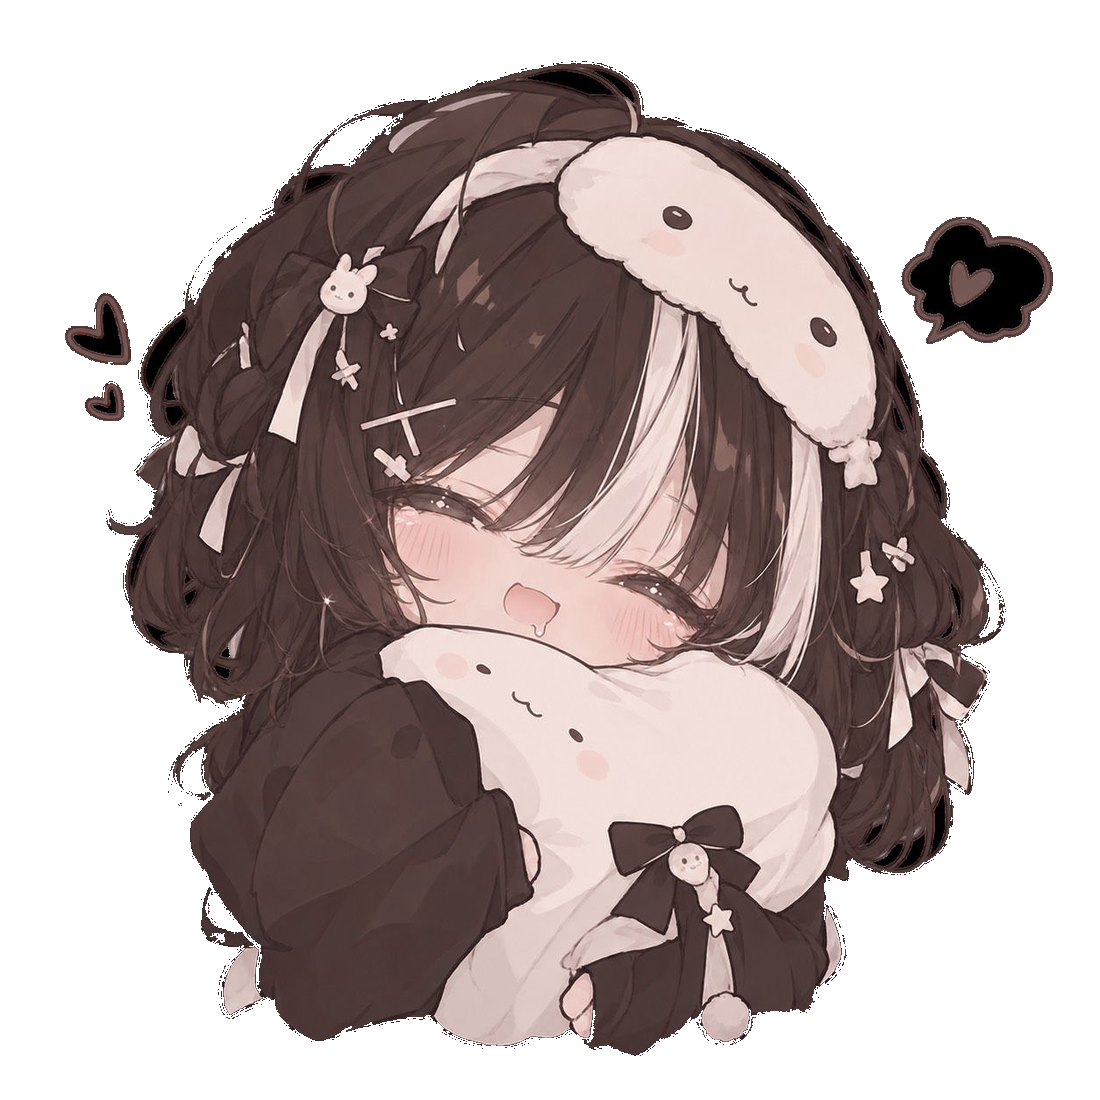
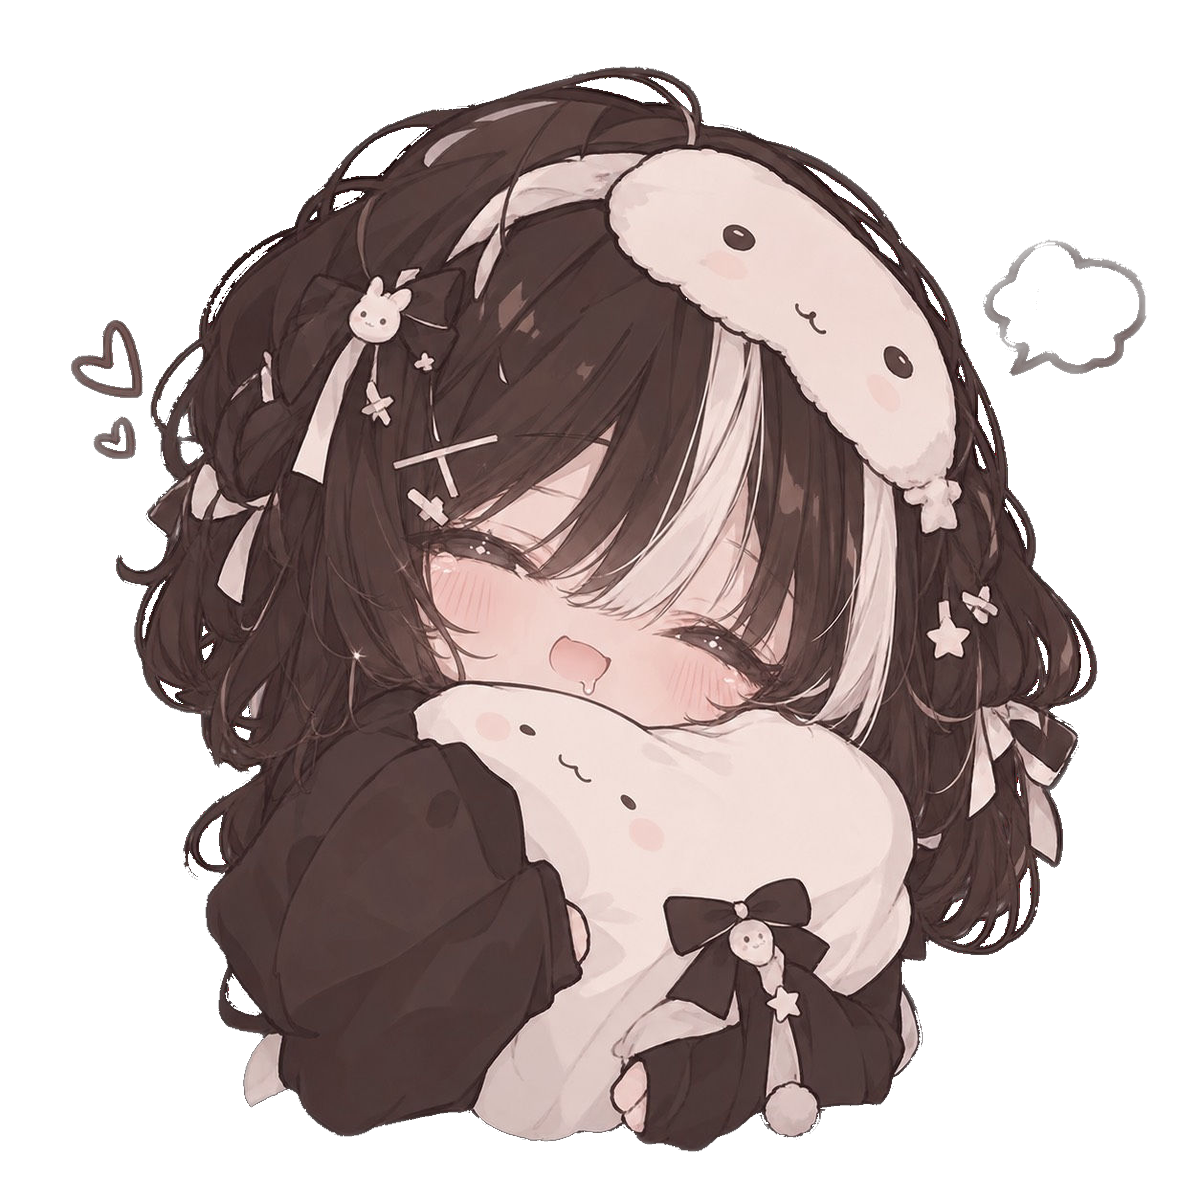
Improve chibi cutout, lang fade, and soft UI sounds.

diff --git a/src/js/sfx.js b/src/js/sfx.js
@@ -1,0 +1,50 @@
+let ctx;
+
+function getCtx() {
+  if (ctx) return ctx;
+  const AudioContext = window.AudioContext || window.webkitAudioContext;
+  if (!AudioContext) return null;
+  ctx = new AudioContext();
+  return ctx;
+}
+
+function tone({ freq = 520, duration = 0.08, type = 'sine', gain = 0.04, slide = 0 } = {}) {
+  const ac = getCtx();
+  if (!ac) return;
+  if (ac.state === 'suspended') ac.resume();
+
+  const t0 = ac.currentTime;
+  const osc = ac.createOscillator();
+  const amp = ac.createGain();
+  osc.type = type;
+  osc.frequency.setValueAtTime(freq, t0);
+  if (slide) {
+    osc.frequency.exponentialRampToValueAtTime(Math.max(40, freq + slide), t0 + duration);
+  }
+  amp.gain.setValueAtTime(0.0001, t0);
+  amp.gain.exponentialRampToValueAtTime(gain, t0 + 0.012);
+  amp.gain.exponentialRampToValueAtTime(0.0001, t0 + duration);
+  osc.connect(amp);
+  amp.connect(ac.destination);
+  osc.start(t0);
+  osc.stop(t0 + duration + 0.02);
+}
+
+export function sfxHover() {
+  tone({ freq: 640, duration: 0.05, type: 'triangle', gain: 0.025, slide: 80 });
+}
+
+export function sfxTap() {
+  tone({ freq: 420, duration: 0.07, type: 'sine', gain: 0.035, slide: 120 });
+}
+
+export function sfxLang() {
+  tone({ freq: 520, duration: 0.06, type: 'sine', gain: 0.03, slide: 160 });
+  window.setTimeout(() => {
+    tone({ freq: 760, duration: 0.08, type: 'triangle', gain: 0.028, slide: 40 });
+  }, 45);
+}
+
+export function sfxClose() {
+  tone({ freq: 380, duration: 0.07, type: 'sine', gain: 0.028, slide: -120 });
+}

diff --git a/src/js/i18n.js b/src/js/i18n.js
@@ -1,10 +1,12 @@
 import fr from '../i18n/fr.json';
 import en from '../i18n/en.json';
+import { sfxLang } from './sfx.js';
 
 const catalogs = { fr, en };
 const STORAGE_KEY = 'krepe-lang';
 
 let currentLang = 'fr';
+let fading = false;
 
 function getByPath(obj, path) {
   return path.split('.').reduce((acc, key) => {
@@ -67,11 +69,40 @@ export function applyI18n() {
   document.title = t('meta.title');
 }
 
-export function setLang(lang) {
-  if (!catalogs[lang]) return;
-  currentLang = lang;
-  localStorage.setItem(STORAGE_KEY, lang);
-  applyI18n();
+function fadeTargets() {
+  return document.querySelectorAll('[data-i18n], [data-i18n-html], #comms-status');
+}
+
+export function setLang(lang, { animate = true } = {}) {
+  if (!catalogs[lang] || lang === currentLang || fading) return;
+
+  const run = () => {
+    currentLang = lang;
+    localStorage.setItem(STORAGE_KEY, lang);
+    applyI18n();
+  };
+
+  if (!animate) {
+    run();
+    return;
+  }
+
+  fading = true;
+  sfxLang();
+  const nodes = fadeTargets();
+  nodes.forEach((node) => node.classList.add('i18n-fade-out'));
+
+  window.setTimeout(() => {
+    run();
+    nodes.forEach((node) => {
+      node.classList.remove('i18n-fade-out');
+      node.classList.add('i18n-fade-in');
+    });
+    window.setTimeout(() => {
+      nodes.forEach((node) => node.classList.remove('i18n-fade-in'));
+      fading = false;
+    }, 280);
+  }, 180);
 }
 
 export function initI18n() {

diff --git a/src/js/panels.js b/src/js/panels.js
@@ -1,3 +1,5 @@
+import { sfxClose, sfxHover, sfxTap } from './sfx.js';
+
 export function initPanels() {
   const layer = document.getElementById('panel-layer');
   const buttons = document.querySelectorAll('.dock-btn[data-panel]');
@@ -10,14 +12,16 @@ export function initPanels() {
     });
   }
 
-  function closePanels() {
+  function closePanels({ playSound = true } = {}) {
     if (!layer) return;
+    const wasOpen = !layer.hidden;
     layer.hidden = true;
     cards.forEach((card) => {
       card.hidden = true;
     });
     setActive('home');
     document.body.style.overflow = 'hidden';
+    if (playSound && wasOpen) sfxClose();
   }
 
   function openPanel(id) {
@@ -36,9 +40,11 @@ export function initPanels() {
     layer.hidden = false;
     card.scrollTop = 0;
     setActive(id);
+    sfxTap();
   }
 
   buttons.forEach((btn) => {
+    btn.addEventListener('mouseenter', () => sfxHover());
     btn.addEventListener('click', () => {
       const id = btn.getAttribute('data-panel');
       if (id) openPanel(id);
@@ -46,12 +52,12 @@ export function initPanels() {
   });
 
   closers.forEach((el) => {
-    el.addEventListener('click', closePanels);
+    el.addEventListener('click', () => closePanels());
   });
 
   document.addEventListener('keydown', (event) => {
     if (event.key === 'Escape') closePanels();
   });
 
-  closePanels();
+  closePanels({ playSound: false });
 }

diff --git a/src/styles/base.css b/src/styles/base.css
@@ -77,3 +77,34 @@ p {
   color: var(--mocha);
   box-shadow: var(--shadow-soft);
 }
+
+.i18n-fade-out {
+  opacity: 0;
+  transform: translateY(4px);
+  transition: opacity 0.18s ease, transform 0.18s ease;
+}
+
+.i18n-fade-in {
+  animation: i18n-in 0.28s ease;
+}
+
+@keyframes i18n-in {
+  from {
+    opacity: 0;
+    transform: translateY(6px);
+  }
+  to {
+    opacity: 1;
+    transform: none;
+  }
+}
+
+@media (prefers-reduced-motion: reduce) {
+  .i18n-fade-out,
+  .i18n-fade-in {
+    transition: none;
+    animation: none;
+    opacity: 1;
+    transform: none;
+  }
+}

diff --git a/src/styles/sections.css b/src/styles/sections.css
@@ -92,8 +92,9 @@
   width: min(78%, 520px);
   max-height: min(78dvh, 640px);
   object-fit: contain;
-  filter: drop-shadow(0 22px 36px color-mix(in srgb, #000 28%, transparent));
   background: transparent;
+  mix-blend-mode: normal;
+  filter: drop-shadow(0 18px 28px color-mix(in srgb, var(--mocha) 22%, transparent));
 }
 
 .stage-brand {
